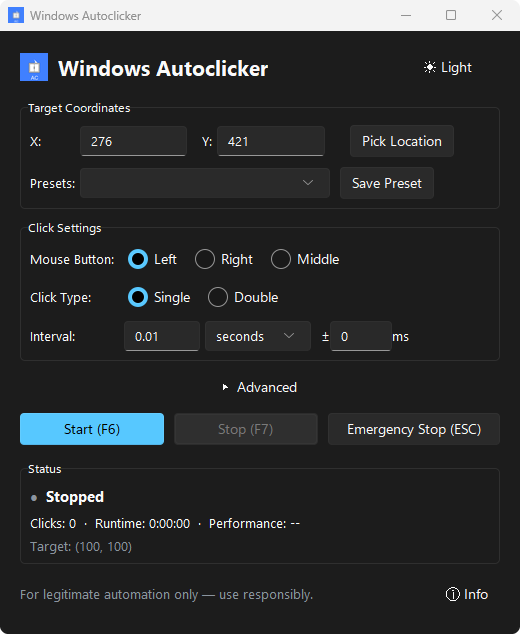
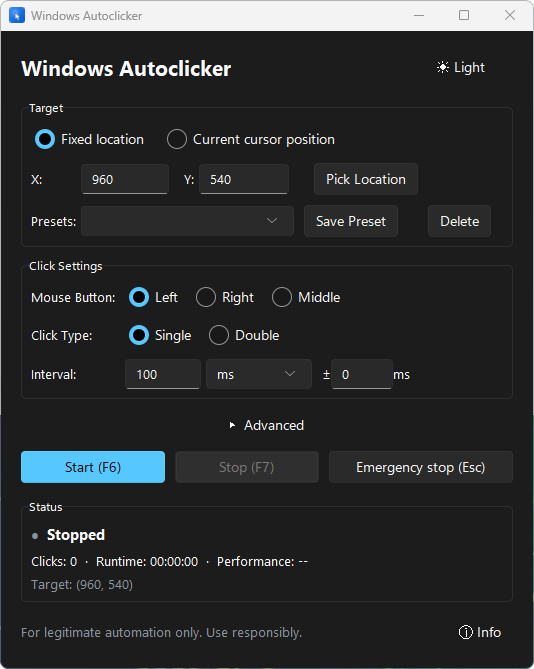
fix(gui): open the window at its content size; refresh README screenshots
The added Target row made the content 637 px tall in a fixed 520x560
window, so the footer started cut off behind a scrollbar. The window now
sizes itself to its content after building (capped at 90% of the screen)
instead of using a hard-coded height.

README screenshots are recaptured from the real app in both themes and
show the current UI (target mode, hotkey labels, new icon). The footer
text and two code comments no longer use dash characters.

diff --git a/autoclicker/gui/main_window.py b/autoclicker/gui/main_window.py
@@ -55,6 +55,7 @@ class AutoclickerApp:
 
         self.setup_window()
         self.create_gui()
+        self._fit_to_content()
 
         self._hotkeys = HotkeyManager(
             callbacks_for(
@@ -115,6 +116,21 @@ class AutoclickerApp:
             label = "\u2600 Light" if new_theme == "dark" else "\u263d Dark"
             self.theme_button.configure(text=label)
 
+    def _fit_to_content(self) -> None:
+        """Size the window to its content (Advanced collapsed) so nothing starts cut off.
+
+        Capped at 90% of the screen height; the scrollbar covers anything taller.
+        """
+        try:
+            self.root.update_idletasks()
+            width = max(520, int(self.main_frame.winfo_reqwidth()))
+            height = int(self.main_frame.winfo_reqheight())
+            height = min(height, int(self.root.winfo_screenheight() * 0.9))
+        except (TypeError, ValueError, AttributeError):
+            return
+        self.root.geometry(f"{width}x{height}")
+        self.center_window()
+
     def center_window(self) -> None:
         """Center the window on screen."""
         self.root.update_idletasks()
@@ -135,6 +151,7 @@ class AutoclickerApp:
         self.canvas.configure(yscrollcommand=self.v_scrollbar.set)
 
         main_frame = ttk.Frame(self.canvas, padding="20")
+        self.main_frame = main_frame
         self.canvas_frame = self.canvas.create_window((0, 0), window=main_frame, anchor="nw")
 
         main_frame.grid_columnconfigure(0, weight=1)
@@ -431,7 +448,7 @@ class AutoclickerApp:
         self._paint_stopped("Stopped")
 
     def emergency_stop(self) -> None:
-        """Emergency stop — immediate halt. Cancels picker if it is active."""
+        """Emergency stop: immediate halt. Cancels the picker if it is active."""
         if self.coordinate_picker.is_picking():
             self.coordinate_picker.stop_picking(cancelled=True)
             return

diff --git a/autoclicker/core/click_engine.py b/autoclicker/core/click_engine.py
@@ -23,7 +23,7 @@ from .exceptions import (
 from .safety import apply_failsafe, get_foreground_window_handle, is_foreground_window
 from .screen import ScreenBounds, virtual_screen_bounds
 
-# Default PAUSE is 0.1s between every PyAutoGUI call — caps CPS at ~5–10/s
+# Default PAUSE is 0.1s between every PyAutoGUI call, which caps CPS at about 5 to 10
 pyautogui.PAUSE = 0
 apply_failsafe(True)
 

diff --git a/autoclicker/gui/sections/disclaimer.py b/autoclicker/gui/sections/disclaimer.py
@@ -21,7 +21,7 @@ def build_disclaimer_section(app, parent: ttk.Frame) -> None:
 
     ttk.Label(
         footer,
-        text="For legitimate automation only \u2014 use responsibly.",
+        text="For legitimate automation only. Use responsibly.",
         foreground="#8b949e",
     ).grid(row=0, column=0, sticky=tk.W)
 

diff --git a/CHANGELOG.md b/CHANGELOG.md
@@ -21,6 +21,7 @@ and this project adheres to [Semantic Versioning](https://semver.org/spec/v2.0.0
 
 ### Fixed
 
+- The window opens at the size of its content, so the footer is no longer cut off with a scrollbar on first launch.
 - Saved presets and hotkeys could leak into the built-in defaults, so resetting settings brought deleted presets back. Defaults are now copied, never shared.
 - `sessions.log` is rotated at 1 MB (3 backups) instead of growing forever, and writes from the UI and click threads no longer interleave. If `APPDATA` is not set, settings and logs go to the roaming profile folder instead of the current directory (#54).
 - Only one copy runs at a time. Launching it again brings the running window to the front (even from the tray) instead of starting a second clicker with its own hotkeys, which used to double the click rate (#50).
